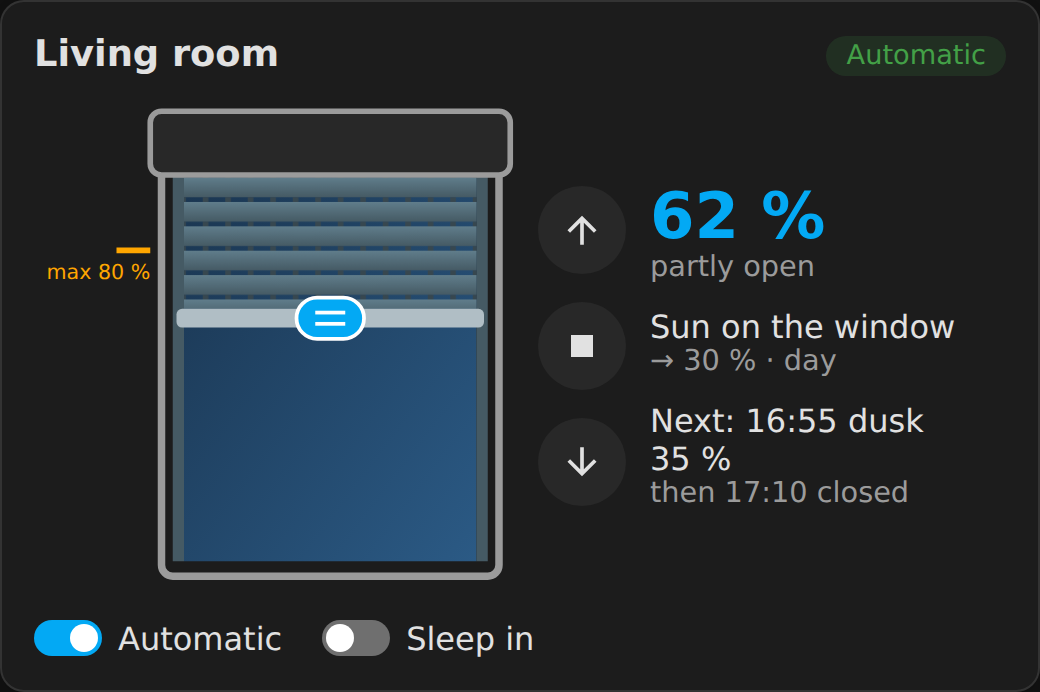
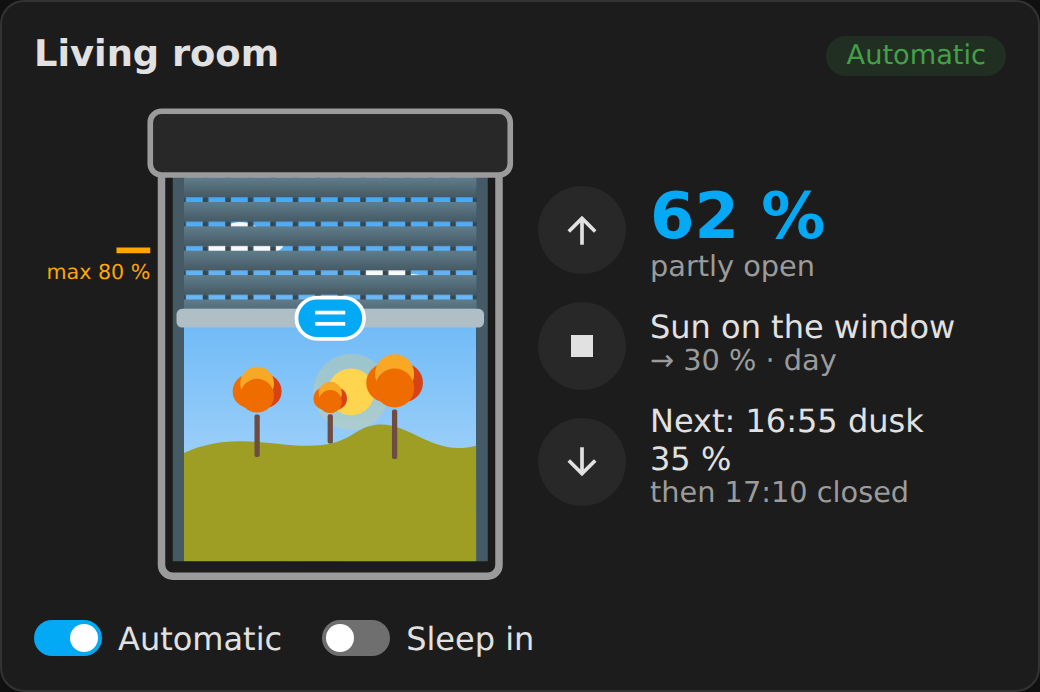
docs: the view through the window, with screenshots (#30)

Changed region(s): [[0.1538, 0.4249, 0.4615, 0.8194], [0.1846, 0.2731, 0.4615, 0.3945]]

diff --git a/scripts/screenshot_card.py b/scripts/screenshot_card.py
@@ -28,15 +28,53 @@ SHOTS = (
     ("card-overview.png", BASE, "light", 900, "", None),
     ("card-overview-dark.png", BASE, "dark", 900, "", None),
     ("card-slit.png", LIVING, "light", 520, "", None),
+    ("card-view-summer.png", LIVING, "light", 520, "", None),
+    ("card-view-storm.png", LIVING, "light", 520, "", None),
+    ("card-view-night.png", LIVING, "dark", 520, "", None),
+    ("card-view-snow.png", LIVING, "light", 520, "", None),
 )
+# the moment of each shot (the card computes the season and the moon from it); default: a November midday
+TIMES = {
+    "card-view-summer.png": "2026-07-01T12:00:00Z",
+    "card-view-storm.png": "2026-10-20T11:00:00Z",
+    "card-view-night.png": "2026-11-24T17:30:00Z",
+    "card-view-snow.png": "2027-01-15T11:00:00Z",
+}
+OPEN = ("open", {"current_position": 100})
+STAND_OPEN = ("open", {"opening": 100})
 # per shot: states that differ from the example (the slit: bar on the sill, gaps open, not closed)
 OVERRIDES = {
+    "card-view-summer.png": {
+        "sensor.living_stand": STAND_OPEN,
+        "cover.living_shutter": OPEN,
+        "sensor.base_sun_factor": ("100", {"sun_azimuth": 175, "sun_elevation": 60, "weather": "sunny"}),
+    },
+    "card-view-storm.png": {
+        "sensor.living_stand": STAND_OPEN,
+        "cover.living_shutter": ("open", {"current_position": 100}),
+        "sensor.base_sun_factor": ("10", {"sun_azimuth": 165, "sun_elevation": 24, "weather": "rainy"}),
+        "binary_sensor.base_storm": ("on", {"wind": 55, "gust": 85}),
+        "sensor.living_reason": ("storm", {"target_position": 100, "max_position": 80, "language": None}),
+    },
+    "card-view-night.png": {  # the full moon rising in the east, seen through a south-east window
+        "cover.living_shutter": ("open", {"current_position": 70}),
+        "sensor.base_sun_factor": ("0", {"sun_azimuth": 245, "sun_elevation": -15, "weather": "clear-night"}),
+        "binary_sensor.living_sun_on_window": ("off", {"window_azimuth": 120, "window_tilt": 90}),
+        "sensor.living_reason": ("schedule", {"target_position": 70, "max_position": 80, "language": None}),
+        "sensor.living_phase": ("night", {}),
+    },
+    "card-view-snow.png": {
+        "sensor.living_stand": STAND_OPEN,
+        "cover.living_shutter": OPEN,
+        "sensor.base_sun_factor": ("5", {"sun_azimuth": 170, "sun_elevation": 14, "weather": "snowy"}),
+        "binary_sensor.base_storm": ("off", {"wind": 22, "gust": 35}),
+    },
     "card-slit.png": {
         "cover.living_shutter": ("open", {"current_position": 0}),
         "sensor.living_stand": ("slit", {}),
         "sensor.living_reason": ("schedule", {"target_position": 0, "max_position": 80, "language": None}),
         "sensor.living_phase": ("slit", {}),
-    }
+    },
 }
 
 
@@ -59,6 +97,7 @@ def hass_json() -> dict:
             "sleep_in": ("switch", s("off")),
             "manual_pause": ("binary_sensor", s("off")),
             "resume": ("button", s("unknown")),
+            "sun_on_window": ("binary_sensor", s("on", window_azimuth=180, window_tilt=90)),
         }),
         KITCHEN: ("Kitchen", {
             "shutter": ("cover", s("closed", current_position=0)),
@@ -73,7 +112,8 @@ def hass_json() -> dict:
             "automatic": ("switch", s("on")),
         }),
         BASE: ("House", {
-            "storm": ("binary_sensor", s("off")),
+            "sun_factor": ("sensor", s(70, sun_azimuth=190, sun_elevation=17, weather="partlycloudy")),
+            "storm": ("binary_sensor", s("off", wind=18, gust=30)),
             "frost": ("binary_sensor", s("off")),
             "sleep_in_all": ("switch", s("off")),
         }),
@@ -90,7 +130,7 @@ def hass_json() -> dict:
         "entities": entities,
         "devices": devices,
         "locale": {"language": "en"},
-        "config": {"time_zone": "Europe/Amsterdam"},
+        "config": {"time_zone": "Europe/Amsterdam", "latitude": 52.1, "longitude": 5.1},
     }
 
 
@@ -118,6 +158,7 @@ def main() -> None:
                     timezone_id="Europe/Amsterdam",
                 )
                 page.emulate_media(reduced_motion="reduce")
+                page.clock.set_fixed_time(TIMES.get(name, "2026-11-18T12:00:00Z"))
                 page.goto(
                     f"http://127.0.0.1:{port}/scripts/screenshots/harness.html"
                     f"?theme={theme}&width={width}&device={device}&lang={lang}"

diff --git a/docs/card.md b/docs/card.md
@@ -21,6 +21,15 @@ device_id: <the shutter's device>
   position (bar on the sill, gaps open); only fully closed are they pressed together.
 
   ![The slit position](images/card-slit.png)
+- **The view through the window:** a cartoon landscape behind the shutter with the real light (night with
+  stars, twilight, day), the weather (clouds, rain, snow, fog, lightning), the sun and the moon (with its
+  phase) at their place as seen through this window, the leaves of the season, and trees that sway with the
+  wind (harder in a storm). Fully closed you see nothing; otherwise the view shows through the slots and below
+  the bottom bar. With reduced motion everything stands still.
+
+  | Summer day | Autumn storm | Full moon | Snow |
+  |---|---|---|---|
+  | ![Summer](images/card-view-summer.png) | ![Storm](images/card-view-storm.png) | ![Night](images/card-view-night.png) | ![Snow](images/card-view-snow.png) |
 - **Maximum position:** an orange mark on the left of the window when it is below 100 %.
 - **Buttons:** open, stop, close.
 - **Status:** position, why the shutter is where it is (sun, schedule, sleep-in, manual until …, storm,

diff --git a/docs/architecture.md b/docs/architecture.md
@@ -771,3 +771,20 @@ classDiagram
 `BaseCoordinator.sun_value()` gives the PV sum or the highest lux, by the sun source. The learned references
 are stored under `clear_sky` (PV) and `clear_sky_lux` (light), a facade sensor's with its shutter. A shutter
 with a facade sensor replaces `sunny` and `sun_factor` in its copy of the inputs before the rules run.
+
+## 12. The view through the window (#30)
+
+Design: [`design/2026-11-20-window-view.md`](design/2026-11-20-window-view.md).
+
+```mermaid
+flowchart LR
+  A["attributes: sun azimuth/elevation, weather (Sun factor), wind/gust (Storm), window direction (Sun on the window)"] --> I["viewmodel.outsideInputs"]
+  T["time, location (hass.config)"] --> I
+  I --> S["scene.sceneFor → Scene (pure)"]
+  M["moon.moonPhase / moonPosition (pure)"] --> S
+  S --> V["view.renderView: SVG layers under the slats"]
+```
+
+`scene.ts` decides what is visible (light, sun and moon place, weather, season, sway); `view.ts` only draws
+it, in the glass area of `ssc-drawing`, under the curtain. The closed slat pattern is opaque; the open
+pattern's slots are transparent, so the view shows through them.

diff --git a/CHANGELOG.md b/CHANGELOG.md
@@ -6,6 +6,15 @@ and since 2026.11.0 versions follow Home Assistant's scheme: `YEAR.MONTH.N` (bef
 
 ## [Unreleased]
 
+### Added
+
+- Card: the view through the window. A cartoon landscape with the real light, weather (clouds, rain, snow,
+  fog, lightning), the sun and the moon with its phase at their place as seen through the window, leaves by
+  season, and trees that sway with the wind, harder in a storm. Fully closed nothing shows; otherwise through
+  the slots and below the bottom bar (#30).
+- Attributes for the card: `window_azimuth` and `window_tilt` on *Sun on the window*, `weather` on *Sun
+  factor*, `wind` and `gust` on *Storm* (#30).
+
 ## [2026.11.1] - 2026-11-20
 
 ### Fixed
